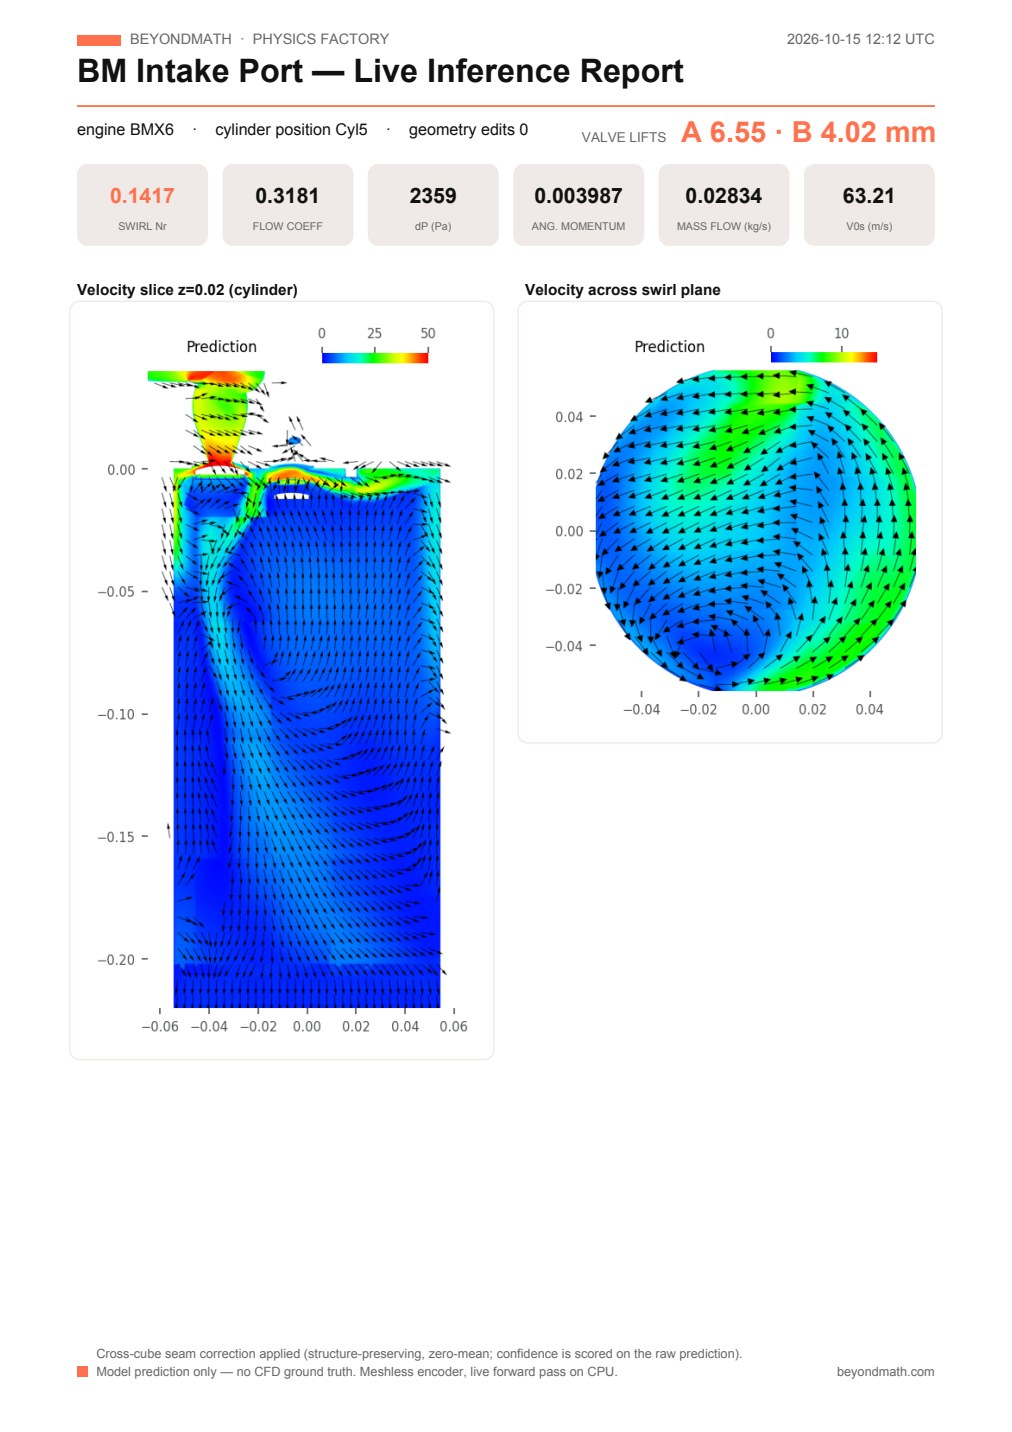
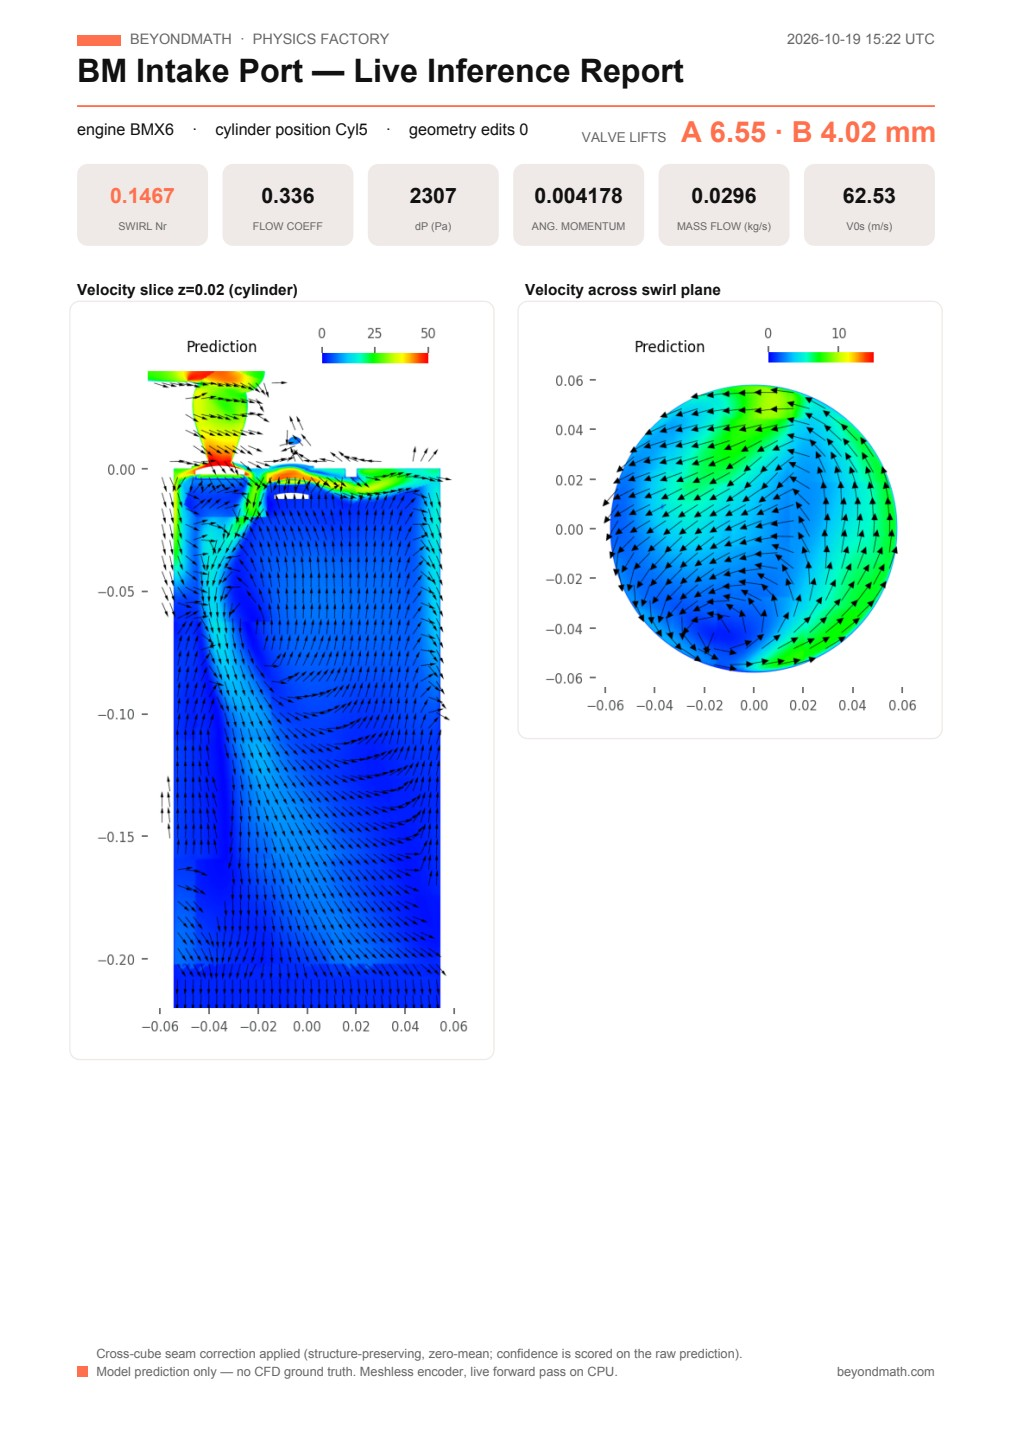
Intake flow post: labelled engine drawing, swirl-plane fix, trimmed claims
Adds an engineering drawing of BMX4 (front, side and a section through
both intake valves) that names the inlet, plenum, runner, port, valves,
lift, bore and bank before the text uses those terms. The bench report
is regenerated so the swirl plane is no longer cropped. The hero caption
is shortened, and the workflow constraints no longer cite independent
valve operation.

diff --git a/posts/20261019-internal-flow-engines/index.html b/posts/20261019-internal-flow-engines/index.html
@@ -371,7 +371,7 @@ html,body{margin:0;padding:0;background:#EFEAE7;}
     <video class="bm-video" loop muted playsinline controls preload="metadata" poster="assets/internal-flow-hero-poster.jpg">
       <source src="assets/internal-flow-hero.mp4" type="video/mp4">
     </video>
-    <figcaption>The four designs, then a cut through cylinder 2 of BMX6. The cut runs along the plane through both intake valves, and the two valves move on separate lift schedules. The colour on the cut face is the predicted velocity; each step of the cycle is its own prediction.</figcaption>
+    <figcaption>The four designs, then a cut through cylinder 2 of BMX6. The cut runs along the plane through both intake valves.</figcaption>
   </figure>
 
   <section class="bm-col">
@@ -385,8 +385,8 @@ html,body{margin:0;padding:0;background:#EFEAE7;}
     <p>Intake flow is characterised by physical testing and by simulation. Both are expensive per data point:</p>
     <ul>
       <li><strong>Flow bench testing.</strong> A cylinder head is mounted on a steady flow bench, air is drawn through it at a fixed pressure difference, and flow rate and swirl are recorded at a series of fixed valve lifts. Each configuration requires a physical part, and each lift is a separate measurement.</li>
-      <li><strong>CFD.</strong> Each combination of geometry and valve lift is a separate case to mesh, solve and post-process, typically at a cost of hours of compute per case. A study covering every cylinder at every combination of two independently moving valves runs to thousands of cases.</li>
-      <li><strong>Limited coverage.</strong> Programmes are consequently restricted to one representative cylinder, a handful of lifts and both valves moving together. Cylinder-to-cylinder variation and independent valve operation, used for swirl control and valve deactivation, are rarely characterised early in design.</li>
+      <li><strong>CFD.</strong> Each combination of geometry and valve lift is a separate case to mesh, solve and post-process, typically at a cost of hours of compute per case. A study covering every cylinder across the full lift range multiplies that cost by the number of cases.</li>
+      <li><strong>Limited coverage.</strong> Programmes are consequently restricted to a representative cylinder and a handful of valve lifts.</li>
     </ul>
     <p>BeyondMath's foundational AI model of physics takes the surface geometry and the boundary conditions and returns the velocity field directly, with no mesh and no solver iterations. The bench metrics are computed from each prediction with the same post-processing used on the CFD results. The rest of this article applies the model to four intake designs, BMX4, BMX6, BMT4 and BMT6, and compares the results with CFD.</p>
   </section>
@@ -405,8 +405,17 @@ html,body{margin:0;padding:0;background:#EFEAE7;}
 
   <section class="bm-col">
     <h2>The four engines</h2>
-    <p>We picked four designs that differ in the ways that matter most for intake flow. Bores range from 88 to 116&nbsp;mm, and there are two four-cylinder and two six-cylinder engines. BMX4 has a plenum with short runners, BMX6 has a long curved runner for each cylinder, and BMT4 and BMT6 use log manifolds fed from opposite ends. On BMX4 the valve pair sits parallel to the bank. On the other three it is rotated across the bank, which changes which valve drives the swirl and which one opposes it.</p>
-    <p>Each design is set up the way it would be on a flow bench, with the inlet, manifold, ports, both intake valves and the bench's porous element in the bore. The model is given the geometry and the boundary conditions and nothing else.</p>
+    <p>The drawing below names the parts of an intake system that the rest of this article refers to, using BMX4 as the example. Air enters at the inlet and collects in the plenum. From there a runner and an intake port carry it to each cylinder, where two intake valves let it in. How far each valve opens is its valve lift. The bore is the diameter of the cylinder, and the bank is the row of cylinders. Together, the inlet, plenum and runners form the intake manifold.</p>
+  </section>
+
+  <figure class="bm-wide">
+    <img src="assets/engine-anatomy.webp" alt="Engineering drawing of the BMX4 intake system: front view, side view and a section through both intake valves of cylinder 1, with the inlet, plenum, runner, intake port, intake valves, valve lift, cylinder, bore and bank labelled" width="1960" height="1722">
+    <figcaption>BMX4 intake system. Section A–A cuts through both intake valves of cylinder 1, the plane used for the flow films later in this article. Valves shown at 9&nbsp;mm lift.</figcaption>
+  </figure>
+
+  <section class="bm-col">
+    <p>We picked four designs that differ in the ways that matter most for intake flow. Bores range from 88 to 116&nbsp;mm, and there are two four-cylinder and two six-cylinder engines. BMX4 has a plenum with short runners, as in the drawing. BMX6 has a long curved runner for each cylinder. BMT4 and BMT6 use log manifolds, a single straight pipe along the bank with a short branch to each port, fed from opposite ends. On BMX4 the two intake valves sit side by side along the bank. On the other three they are turned across it, which changes which valve drives the swirl and which one opposes it.</p>
+    <p>Each design is set up the way it would be on a flow bench, with the inlet, manifold, ports, both intake valves and the porous element the bench places in the cylinder. The model is given the geometry and the boundary conditions and nothing else.</p>
   </section>
 
   <div class="bm-engines bm-wide">
